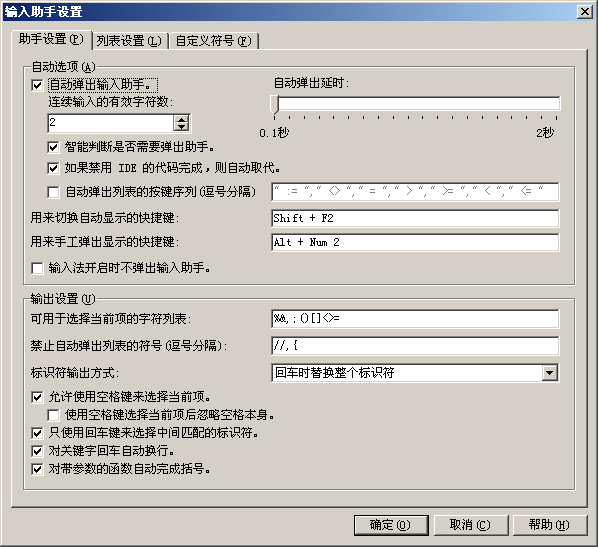
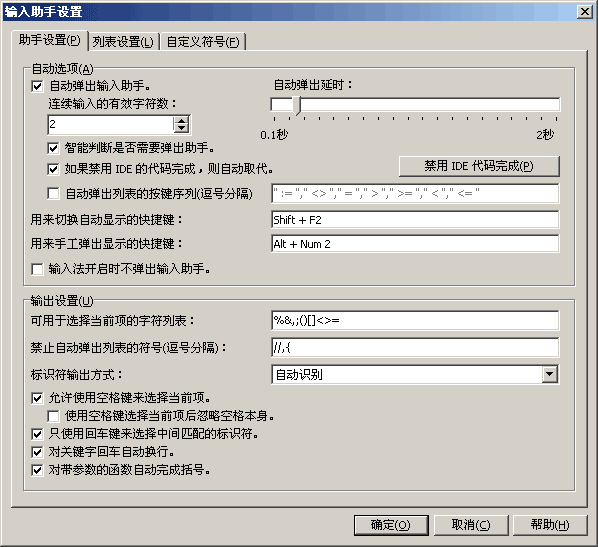
* [Help] Update Input Helper Help File and Snapshot and some Language Items.

diff --git a/Help/CnWizards_ENU/ideenhance/inputhelper.htm b/Help/CnWizards_ENU/ideenhance/inputhelper.htm
@@ -88,7 +88,9 @@
 	<li>
 	<p class="text"><b>Intelligent Popup</b>: If switch it on, then don't popup list when current identifier is just the same of one of the list.</li>
 	<li>
-	<p class="text"><b>Replace Code Insight when Later is Disabled</b>: If you want to replace IDE's Code Completion, switch it on and disable IDE's Code Completion.</li>
+	<p class="text"><b>Replace Code Completion when Later is Disabled</b>: If you want to replace IDE's Code Completion, switch it on and disable IDE's Code Completion.</li>
+  <li>
+	<p class="text"><b>Disable Code Completion</b>: If you want to replace IDE's Code Completion, you can disable IDE's Code Completion directly here.</li>
 	<li>
 	<p class="text"><b>Auto Popup after Key Sequences</b>: If you enter one of specified key sequences here in code editor, input helper will popup. A key sequence is a double-quoted string. Key sequences are separated by comma.</li>
 	<li>
